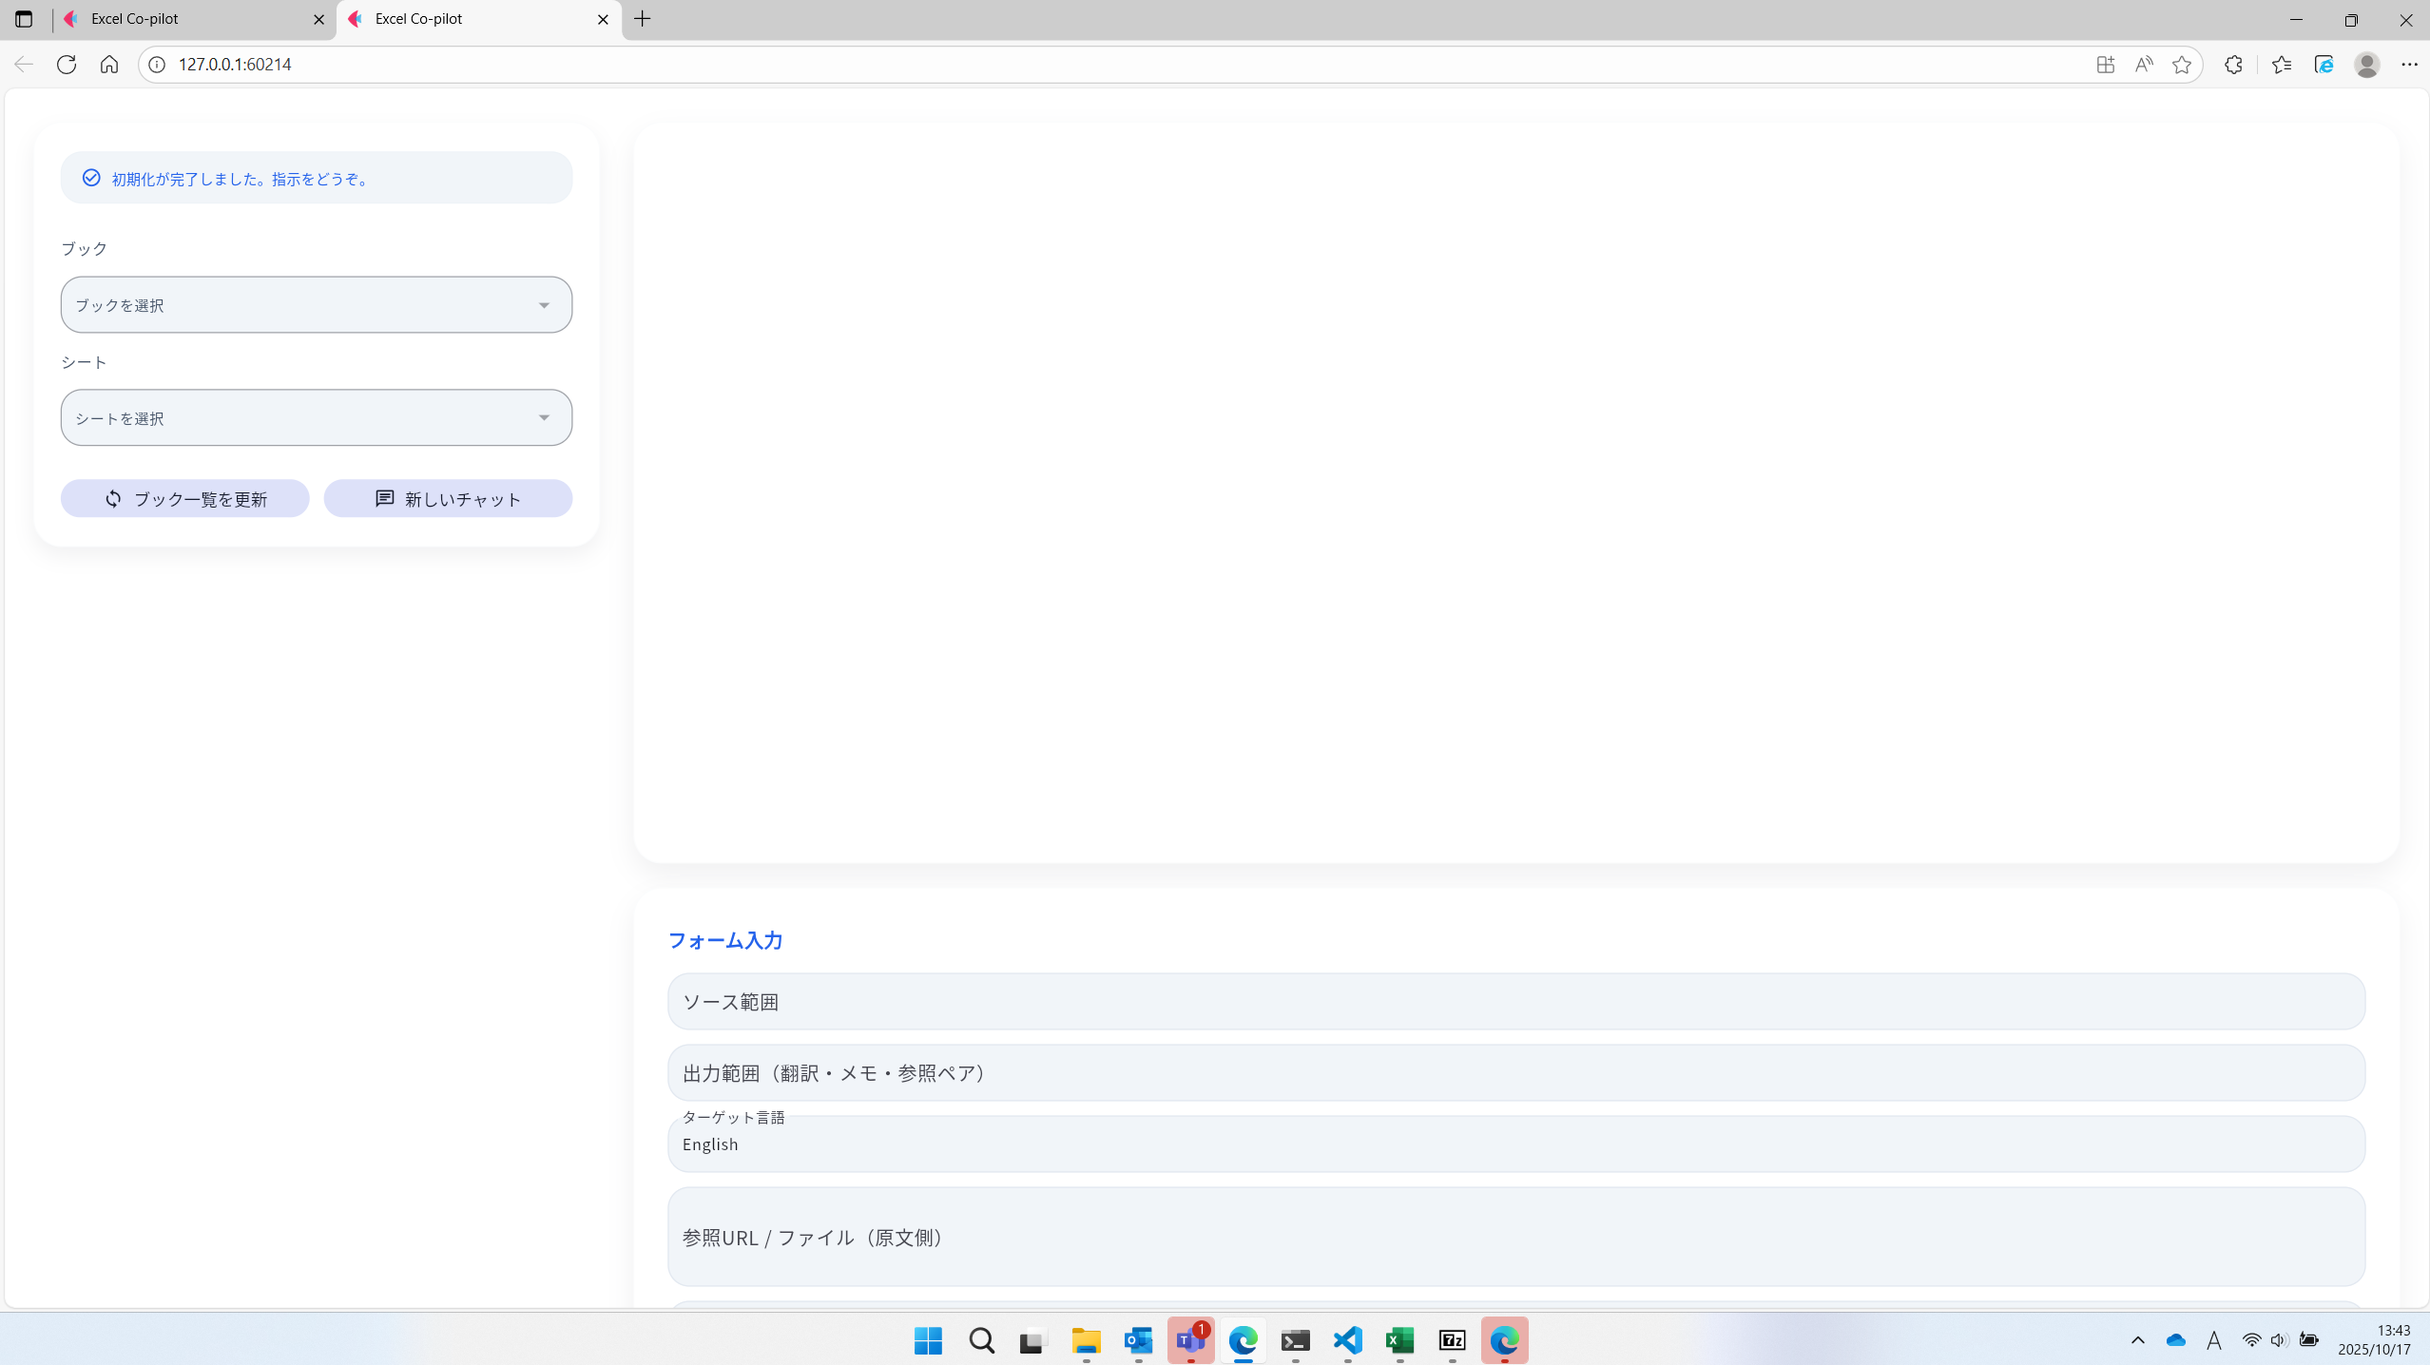
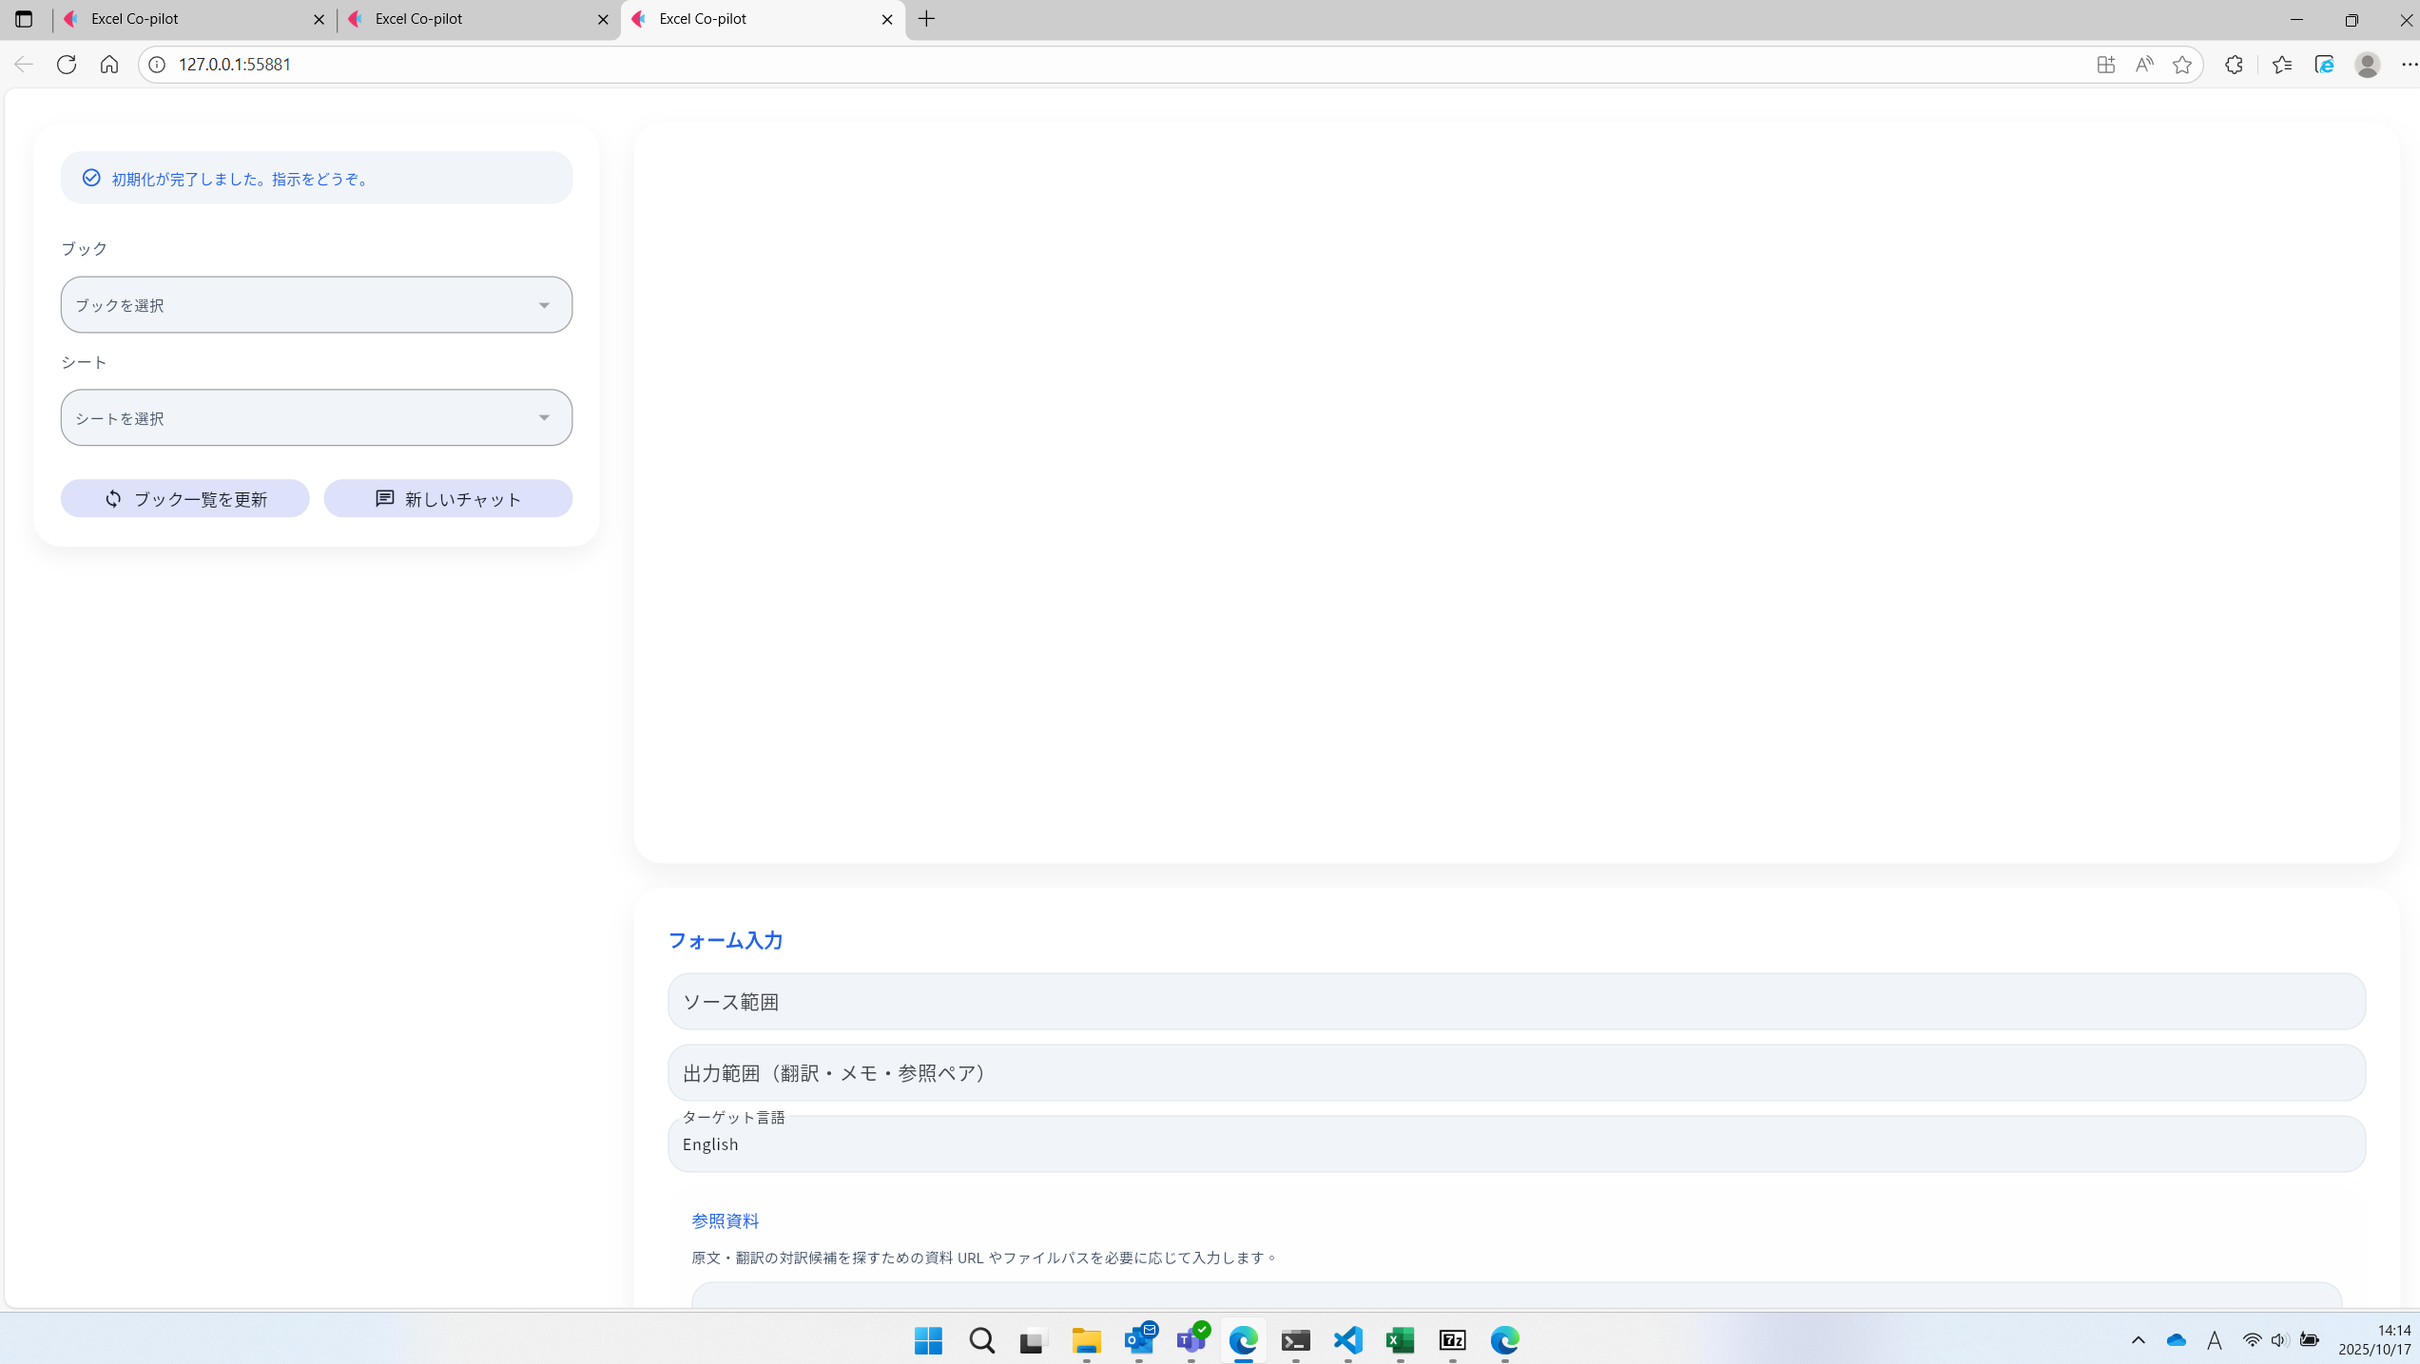
Enforce URL-only references across UI, prompts, and tooling with updated validation and warnings. Refresh implementation plan and program spec to match the remote-reference requirements.

diff --git a/excel_copilot/tools/excel_tools.py b/excel_copilot/tools/excel_tools.py
@@ -8,7 +8,7 @@ import string
 from threading import Event
 from typing import List, Any, Optional, Dict, Tuple, Set
 from pathlib import Path
-from urllib.parse import urlparse, unquote
+from urllib.parse import urlparse
 
 from excel_copilot.core.browser_copilot_manager import BrowserCopilotManager
 from excel_copilot.core.exceptions import ToolExecutionError, UserStopRequested
@@ -32,22 +32,6 @@ _NO_QUOTES_PLACEHOLDER = "引用なし"
 _HTML_ENTITY_PATTERN = re.compile(r"&(?:[A-Za-z][A-Za-z0-9]{1,31}|#[0-9]{1,7}|#x[0-9A-Fa-f]{1,6});")
 DEFAULT_REFERENCE_PAIR_COLUMNS = 10
 _MIN_CONTEXT_BLOCK_WIDTH = 2 + DEFAULT_REFERENCE_PAIR_COLUMNS
-_REFERENCE_FALLBACK_ROOTS: List[Path] = []
-
-_REFERENCE_FALLBACK_ROOTS.append(Path.cwd())
-downloads_dir = Path.home() / "Downloads"
-if downloads_dir.is_dir():
-    _REFERENCE_FALLBACK_ROOTS.append(downloads_dir)
-extra_dirs = os.getenv("COPILOT_REFERENCE_DIRS", "")
-if extra_dirs:
-    for token in extra_dirs.split(os.pathsep):
-        token = token.strip()
-        if not token:
-            continue
-        candidate = Path(token).expanduser()
-        if candidate.is_dir():
-            _REFERENCE_FALLBACK_ROOTS.append(candidate)
-
 if _DIFF_DEBUG_ENABLED and not logging.getLogger().handlers:
     logging.basicConfig(level=logging.DEBUG)
 
@@ -1138,46 +1122,6 @@ def translate_range_contents(
             except Exception:
                 workbook_dir = None
 
-        def _resolve_local_reference_copy(url: str) -> Optional[Path]:
-            try:
-                parsed = urlparse(url)
-            except Exception:
-                return None
-            filename = unquote(Path(parsed.path).name)
-            if not filename:
-                return None
-            candidates: List[Path] = []
-            for root in _REFERENCE_FALLBACK_ROOTS:
-                candidates.append(root / filename)
-            # allow nested directories encoded in URL
-            if "/" in filename:
-                path_fragment = Path(filename)
-                for root in _REFERENCE_FALLBACK_ROOTS:
-                    candidates.append(root / path_fragment)
-            for candidate in candidates:
-                if candidate.exists():
-                    return candidate.resolve()
-            return None
-
-        def _resolve_file_reference(value: str) -> Optional[Path]:
-            candidate = value.strip()
-            if not candidate:
-                return None
-            path_value = Path(candidate).expanduser()
-            search_paths: List[Path] = []
-            if path_value.is_absolute():
-                search_paths.append(path_value)
-            else:
-                if workbook_dir:
-                    search_paths.append(workbook_dir / path_value)
-                search_paths.append(Path.cwd() / path_value)
-            for path_candidate in search_paths:
-                try:
-                    if path_candidate.exists():
-                        return path_candidate.resolve()
-                except Exception:
-                    continue
-            return None
         target_sheet, normalized_range = _split_sheet_and_range(cell_range, sheet_name)
         source_rows, source_cols = _parse_range_dimensions(normalized_range)
 
@@ -1273,7 +1217,6 @@ def translate_range_contents(
         def _collect_reference_entries(raw_values: Optional[List[Any]], label: str) -> Tuple[List[Dict[str, str]], List[str]]:
             entries: List[Dict[str, str]] = []
             invalid_tokens: List[str] = []
-            coerced_notes: List[str] = []
             seen_urls: Set[str] = set()
 
             if not raw_values:
@@ -1285,6 +1228,7 @@ def translate_range_contents(
                     continue
                 if not isinstance(raw_value, str):
                     raise ToolExecutionError(f"Each entry in {label} must be a string.")
+
                 original_value = raw_value
                 url = _strip_enclosing_quotes(raw_value)
                 if not url:
@@ -1292,59 +1236,37 @@ def translate_range_contents(
                 normalized_url = url.strip()
                 if not normalized_url:
                     continue
-                if _is_probable_url(normalized_url):
-                    resolved_url = normalized_url
-                    try:
-                        parsed = urlparse(normalized_url)
-                        scheme = (parsed.scheme or "").lower()
-                        has_remote_netloc = bool(parsed.netloc)
-                    except Exception:
-                        parsed = None
-                        scheme = ""
-                        has_remote_netloc = False
 
-                    local_copy: Optional[Path] = None
-                    # Only coerce to a local file when the reference is already a file-style URL
-                    # (e.g. file:// or relative paths encoded as URLs). Remote HTTP(S) URLs are
-                    # preserved exactly as entered so that the AI receives the original links.
-                    if scheme in {"file"} or not has_remote_netloc:
-                        local_copy = _resolve_local_reference_copy(normalized_url)
+                if not _is_probable_url(normalized_url):
+                    invalid_tokens.append(original_value or "(空文字列)")
+                    continue
 
-                    if local_copy is not None:
-                        resolved_url = local_copy.as_uri()
-                        coerced_notes.append(
-                            f"{label} の値 '{original_value}' をローカルファイル '{local_copy.name}' に置き換えて利用します。"
-                        )
-                    if resolved_url not in seen_urls:
-                        seen_urls.add(resolved_url)
-                        entries.append({
-                            "id": f"{label[:1].upper()}{len(entries) + 1}",
-                            "url": resolved_url,
-                        })
+                try:
+                    parsed = urlparse(normalized_url)
+                    scheme = (parsed.scheme or "").lower()
+                    has_remote_netloc = bool(parsed.netloc)
+                except Exception:
+                    scheme = ""
+                    has_remote_netloc = False
+
+                if scheme not in {"http", "https"} or not has_remote_netloc:
+                    invalid_tokens.append(original_value or "(空文字列)")
                     continue
-                resolved_path = _resolve_file_reference(normalized_url)
-                if resolved_path:
-                    coerced_notes.append(
-                        f"{label} の値 '{original_value}' をファイル '{resolved_path.name}' として利用しました。"
-                    )
-                    resolved_url = resolved_path.as_uri()
-                    if resolved_url not in seen_urls:
-                        seen_urls.add(resolved_url)
-                        entries.append({
-                            "id": f"{label[:1].upper()}{len(entries) + 1}",
-                            "url": resolved_url,
-                        })
-                    continue
-                invalid_tokens.append(original_value or "(空文字列)")
+
+                resolved_url = normalized_url
+                if resolved_url not in seen_urls:
+                    seen_urls.add(resolved_url)
+                    entries.append({
+                        "id": f"{label[:1].upper()}{len(entries) + 1}",
+                        "url": resolved_url,
+                    })
 
             warnings: List[str] = []
             if invalid_tokens:
                 invalid_urls = ", ".join(_dedupe_preserve_order(invalid_tokens))
                 warnings.append(
-                    f"{label} で指定された値 ({invalid_urls}) はURLや既存ファイルとして解釈できなかったため無視しました。"
+                    f"{label} で指定された値 ({invalid_urls}) はHTTP(S) URLとして解釈できなかったため無視しました。"
                 )
-            if coerced_notes:
-                warnings.extend(_dedupe_preserve_order(coerced_notes))
             return entries, warnings
 
         source_reference_inputs: List[Any] = []

diff --git a/desktop_app.py b/desktop_app.py
@@ -115,26 +115,26 @@ FORM_FIELD_DEFINITIONS: Dict[CopilotMode, List[Dict[str, Any]]] = {
         {
             "control": "section",
             "label": "参照資料",
-            "description": "原文・翻訳の対訳候補を探すための資料 URL やファイルパスを必要に応じて入力します。",
+            "description": "HTTP(S) で取得できるリモート参照 URL を必要に応じて入力します。複数ある場合は1行に1件ずつ記入してください。",
             "expanded": False,
             "children": [
                 {
                     "name": "source_reference_urls",
-                    "label": "参照URL / ファイル（原文側）",
+                    "label": "参照URL（原文側）",
                     "argument": "source_reference_urls",
                     "type": "list",
                     "multiline": True,
                     "min_lines": 2,
-                    "placeholder": "1行に1件ずつ入力してください（ローカルファイル可）",
+                    "placeholder": "例: https://example.com/source-guideline",
                 },
                 {
                     "name": "target_reference_urls",
-                    "label": "参照URL / ファイル（翻訳側）",
+                    "label": "参照URL（翻訳側）",
                     "argument": "target_reference_urls",
                     "type": "list",
                     "multiline": True,
                     "min_lines": 2,
-                    "placeholder": "1行に1件ずつ入力してください",
+                    "placeholder": "例: https://example.com/english-reference",
                 },
             ],
         },
@@ -888,7 +888,7 @@ class CopilotApp:
         if tool_name == "translate_range_with_references":
             has_reference = any(arguments.get(key) for key in ("source_reference_urls", "target_reference_urls"))
             if not has_reference:
-                return None, "参照URLまたはファイルを1件以上入力してください。", None
+                return None, "参照URLを1件以上入力してください。", None
 
         payload: Dict[str, Any] = {
             "mode": self.mode.value,

diff --git a/excel_copilot/agent/prompts.py b/excel_copilot/agent/prompts.py
@@ -60,7 +60,7 @@ ReAct ループ
 
 追加の制約
 - `cell_range`、`sheet_name`（必要に応じて）、`target_language`、`translation_output_range` を必ず指定すること。
-- 参照資料は `source_reference_urls`、`target_reference_urls` で指定し、URL の正規化や余分な空白を避けること。
+- 参照資料は `source_reference_urls`、`target_reference_urls` で指定し、HTTP(S) でアクセスできる URL のみを渡すこと。余分な空白やローカルパスを含めないこと。
 - `overwrite_source` はユーザーが明示的に許可しない限り `false` にしておき、`false` の場合は翻訳結果を別セルに出力すること。
 - 引用の詳細は翻訳出力列に内包されるため、専用の引用出力範囲は指定しないこと。
 

diff --git a/IMPLEMENTATION_PLAN.md b/IMPLEMENTATION_PLAN.md
@@ -7,7 +7,8 @@
    - クライアント側で必須入力や数値範囲を検証し、その場でエラーメッセージを表示できるようにしました。  
    - 送信内容から構造化 JSON ペイロードを生成し、ワーカーへ投入する経路を整備しました。  
    - 現行プロセスで不要となった「共通参照URL／ファイル」「引用出力範囲」「バッチ行数」の入力フィールドを削除し、フォームを簡素化しました。  
-   - 参照資料入力は専用セクションに整理し、オプション項目を視覚的にまとめて入力負荷を軽減しました。
+   - 参照資料入力は専用セクションに整理し、オプション項目を視覚的にまとめて入力負荷を軽減しました。  
+   - 参照フィールドはリモート URL のみを受け付ける方針に統一し、文言・バリデーションを順次見直す予定です。
 2. チャット表示と操作系の整理  
    - 送信ボタンを廃止してフォーム内の「送信」「停止」操作に統合しました。  
    - 自動テスト経路をフォーム送信フローに合わせて更新しました。  
@@ -24,5 +25,5 @@
 
 - 代表的なフォーム入力ケースについて自動テスト（単体／統合）を追加し、回帰検証を容易にする。  
 - フォーム定義やデフォルト値を外部設定化し、運用環境ごとにカスタマイズしやすくする。  
-- 参照資料（URL／ファイル）入力の UX を改善し、ドラッグ＆ドロップや最近使用した項目の候補表示を検討する。  
+- 参照資料（URL）入力の UX を改善し、ドラッグ＆ドロップや最近使用した項目の候補表示を検討する。  
 - UI のラベル／プレースホルダー文言と実装仕様（複数参照の扱い、ローカルファイル可否など）の差異を棚卸しし、必要に応じて文言・バリデーションを調整する。

diff --git a/PROGRAM_SPEC.md b/PROGRAM_SPEC.md
@@ -5,7 +5,7 @@
 ## 目的と機能
 
 - Excel の指定セル範囲を日本語から英語（他言語にも拡張可能）へ翻訳する。
-- 参照資料（URL やファイル）を活用し、訳語の統一と証跡を補強する。
+- 参照資料（リモート URL）を活用し、訳語の統一と証跡を補強する。
 - 既存翻訳の品質レビューを行い、指摘内容・修正案・ハイライトを提示する。
 - 翻訳結果やレビュー結果を Excel に書き戻し、進捗を UI 上で可視化する。
 
